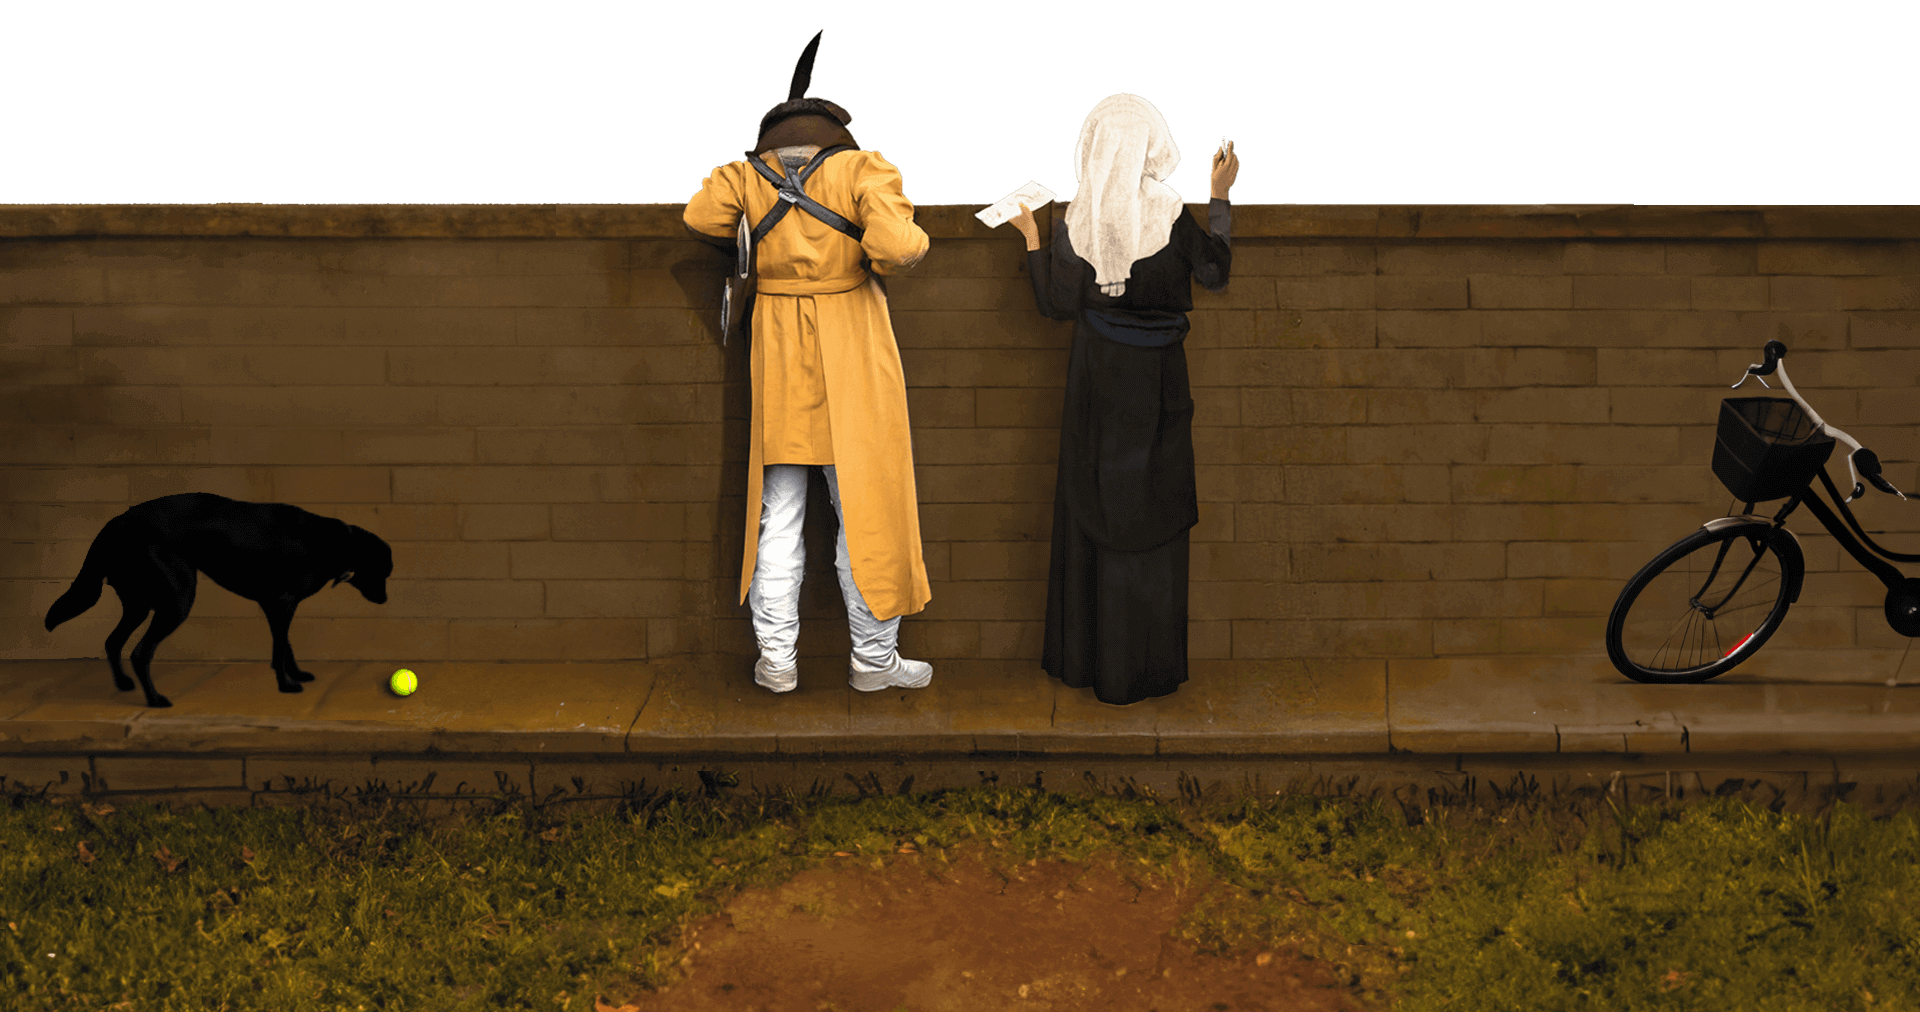
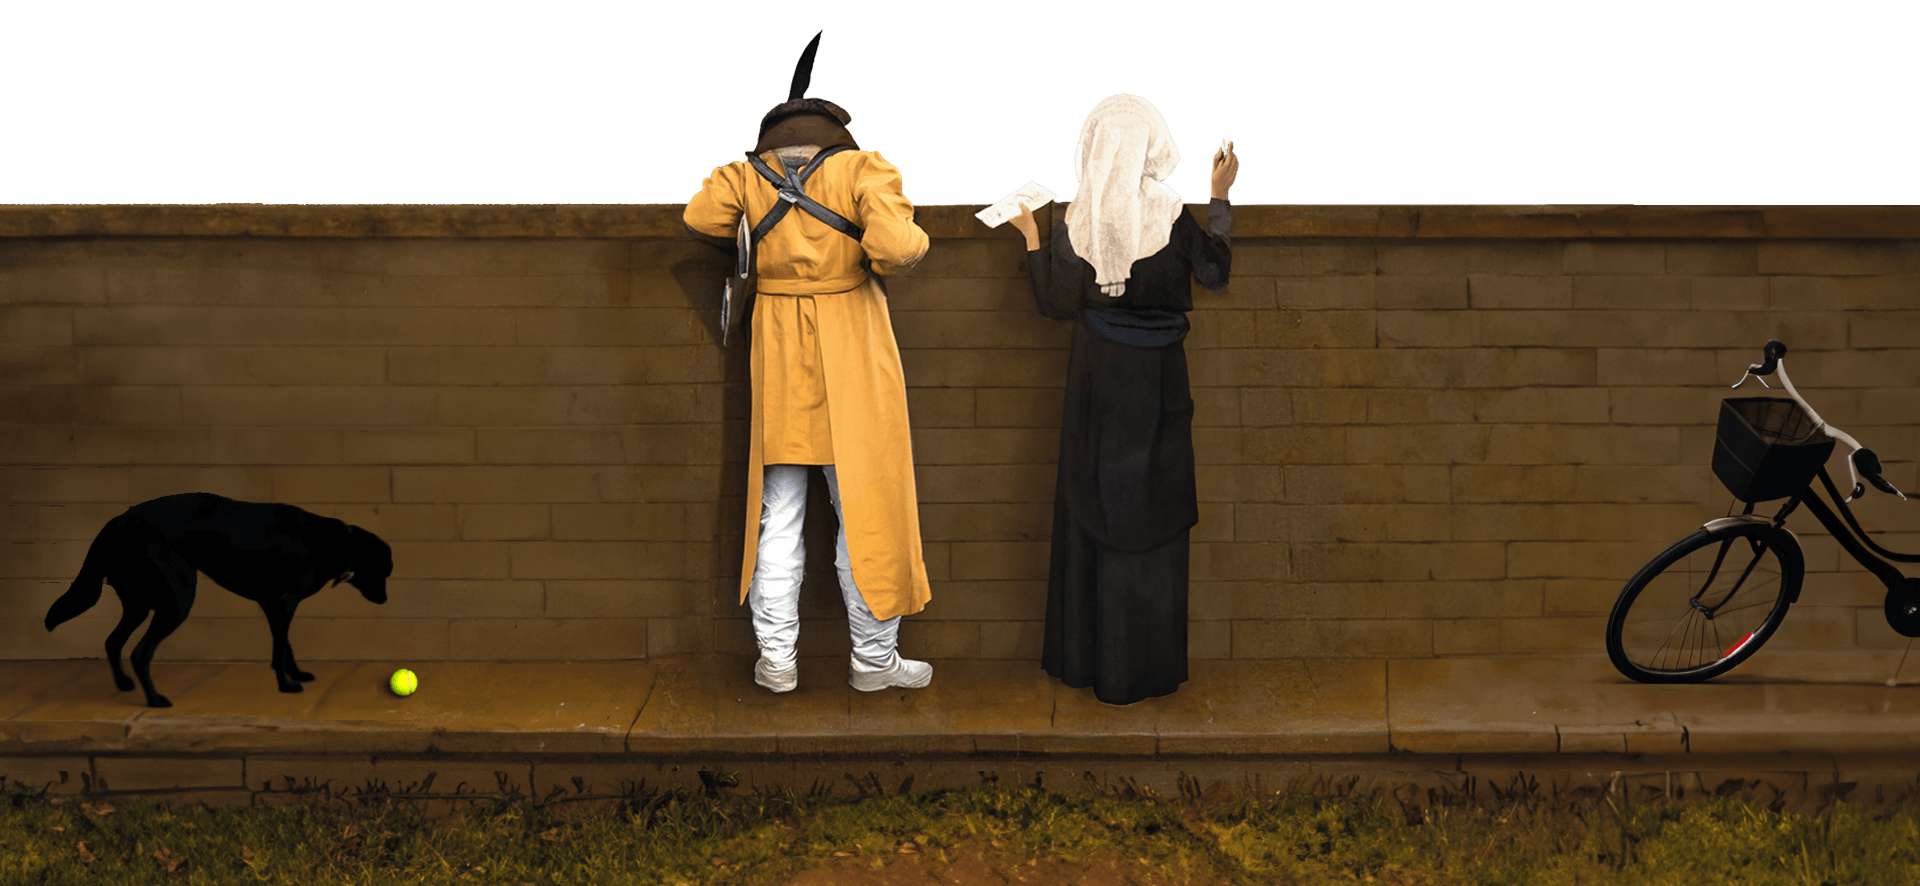
assets: update

diff --git a/components/Celestials.vue b/components/Celestials.vue
@@ -67,7 +67,7 @@
 </template>
 
 <script setup>
-import { onMounted, onUnmounted, ref } from 'vue';
+import { onMounted } from 'vue';
 import gsap from 'gsap';
 
 const emit = defineEmits(['headerEmit']);
@@ -139,7 +139,7 @@ onMounted(() => {
         max-width: 100%
         height: 100%
         object-fit: cover
-        object-position: center bottom
+        object-position: center top
   .constellation
     position: fixed
     top: 0
